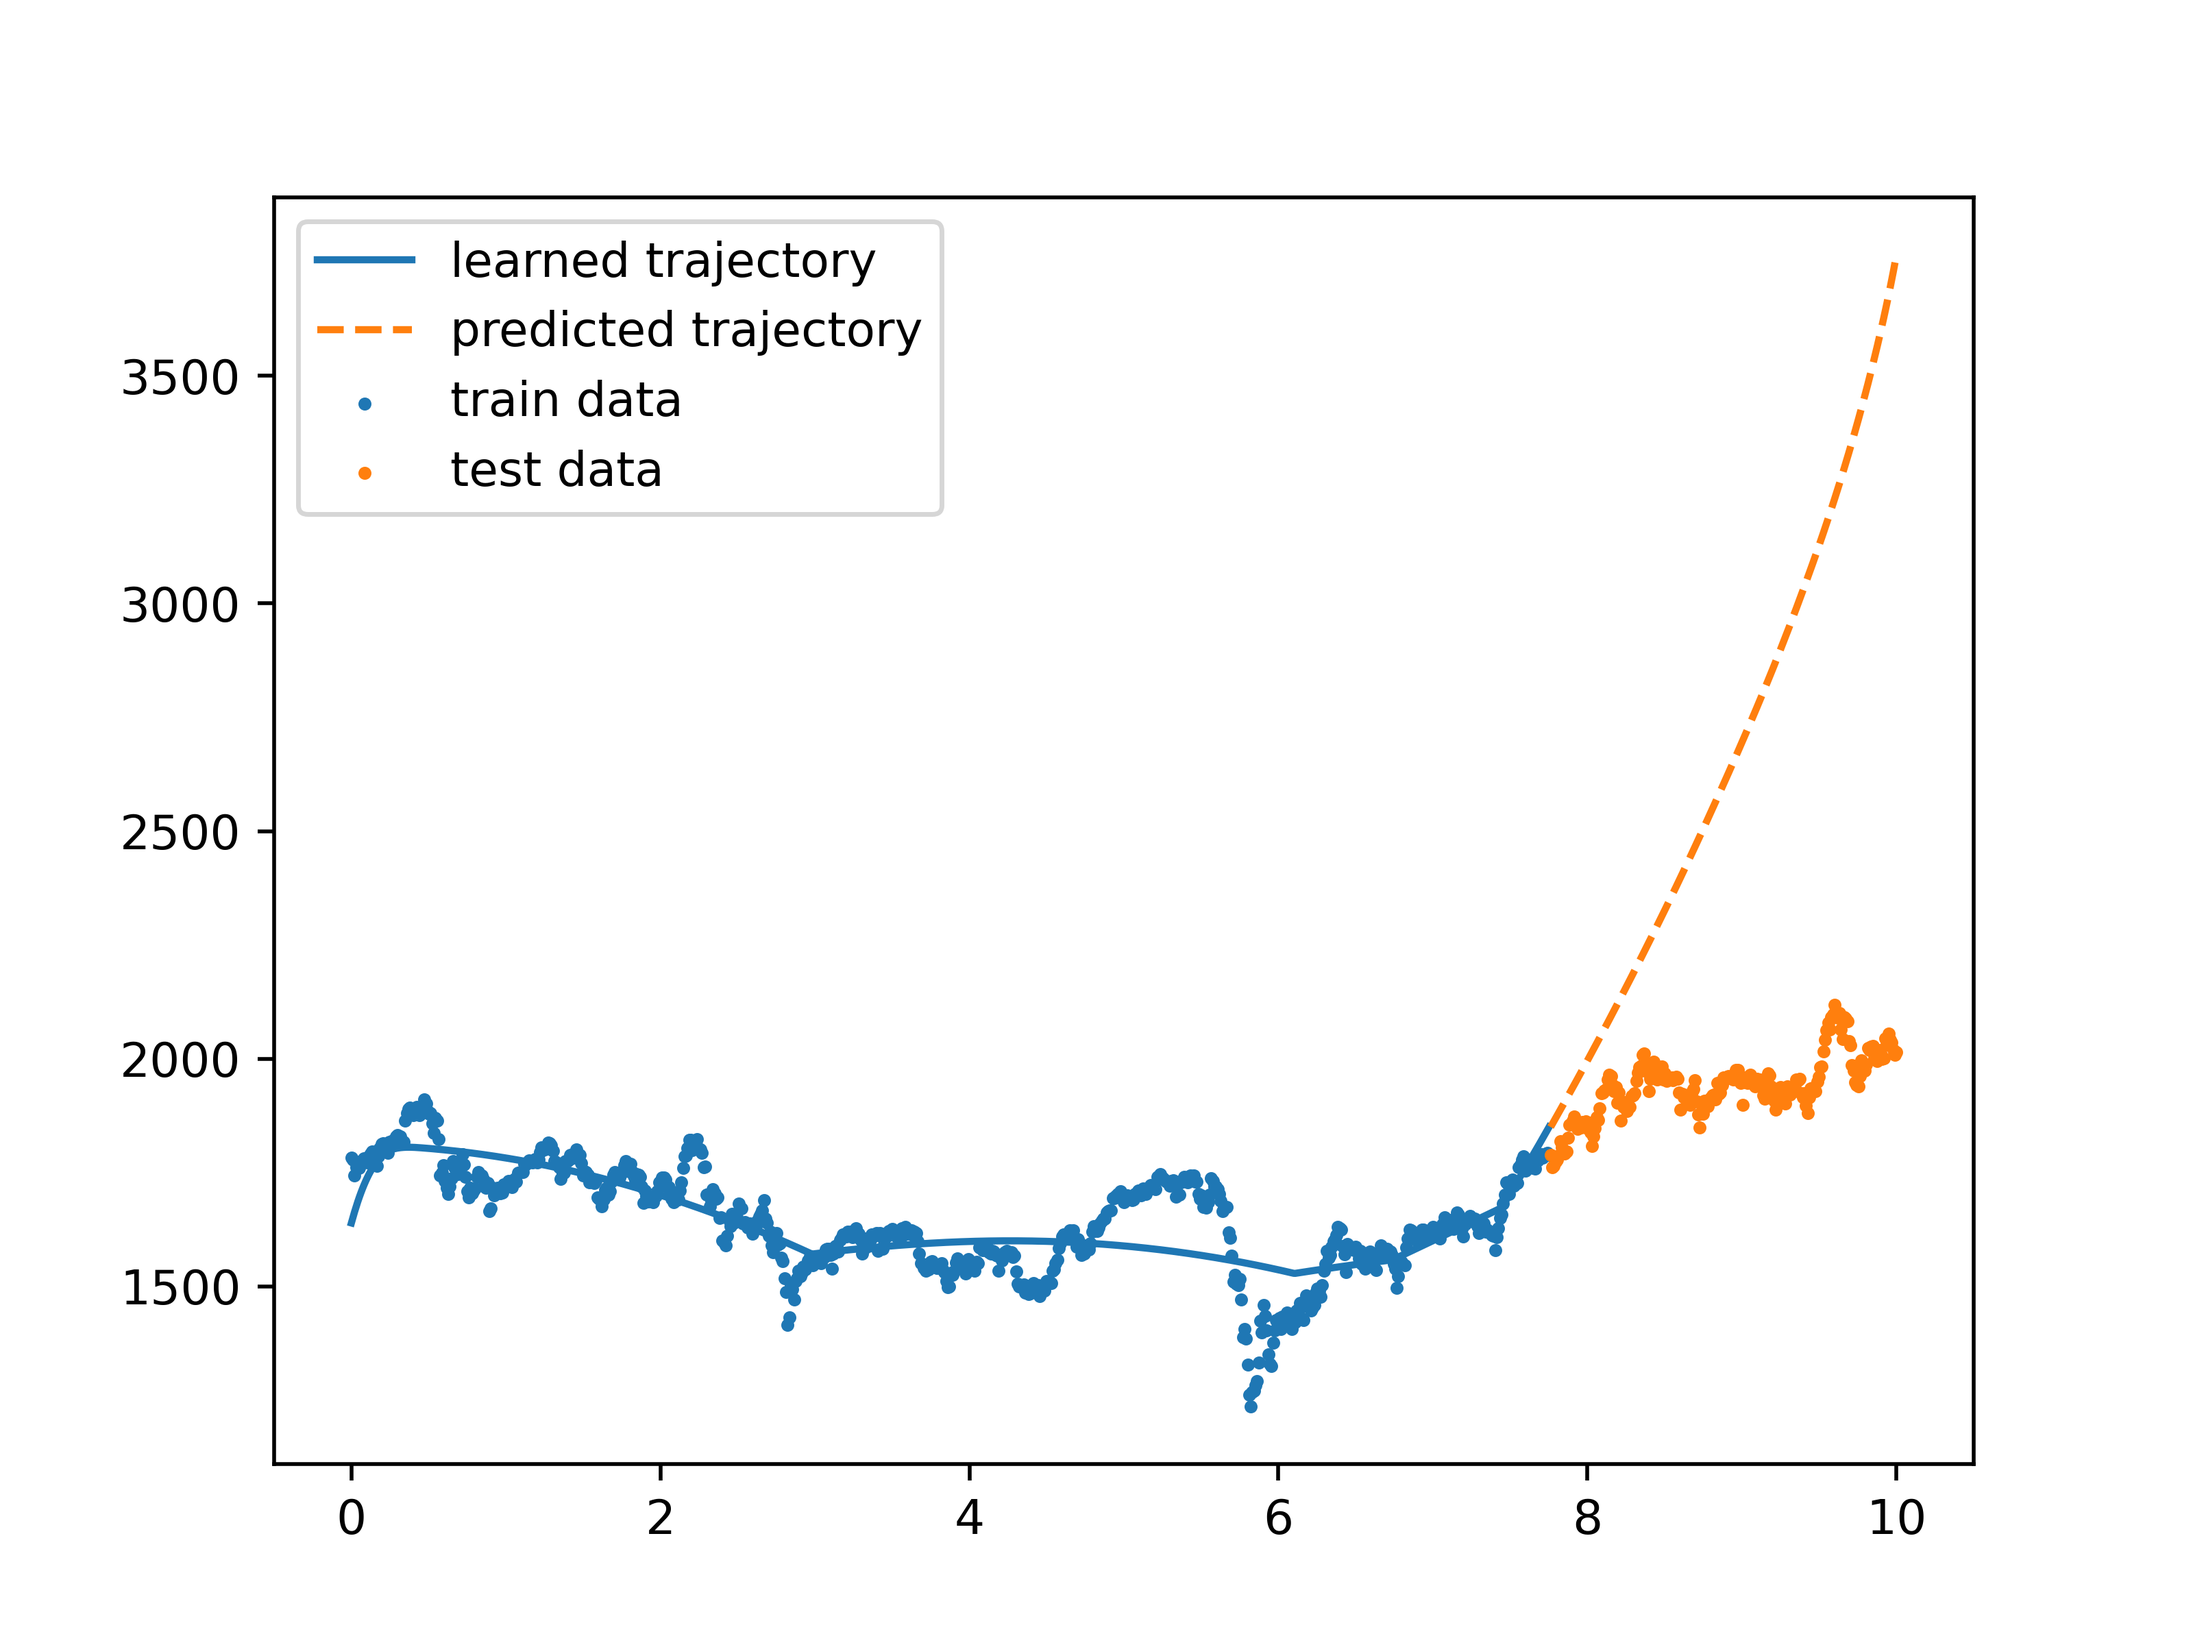
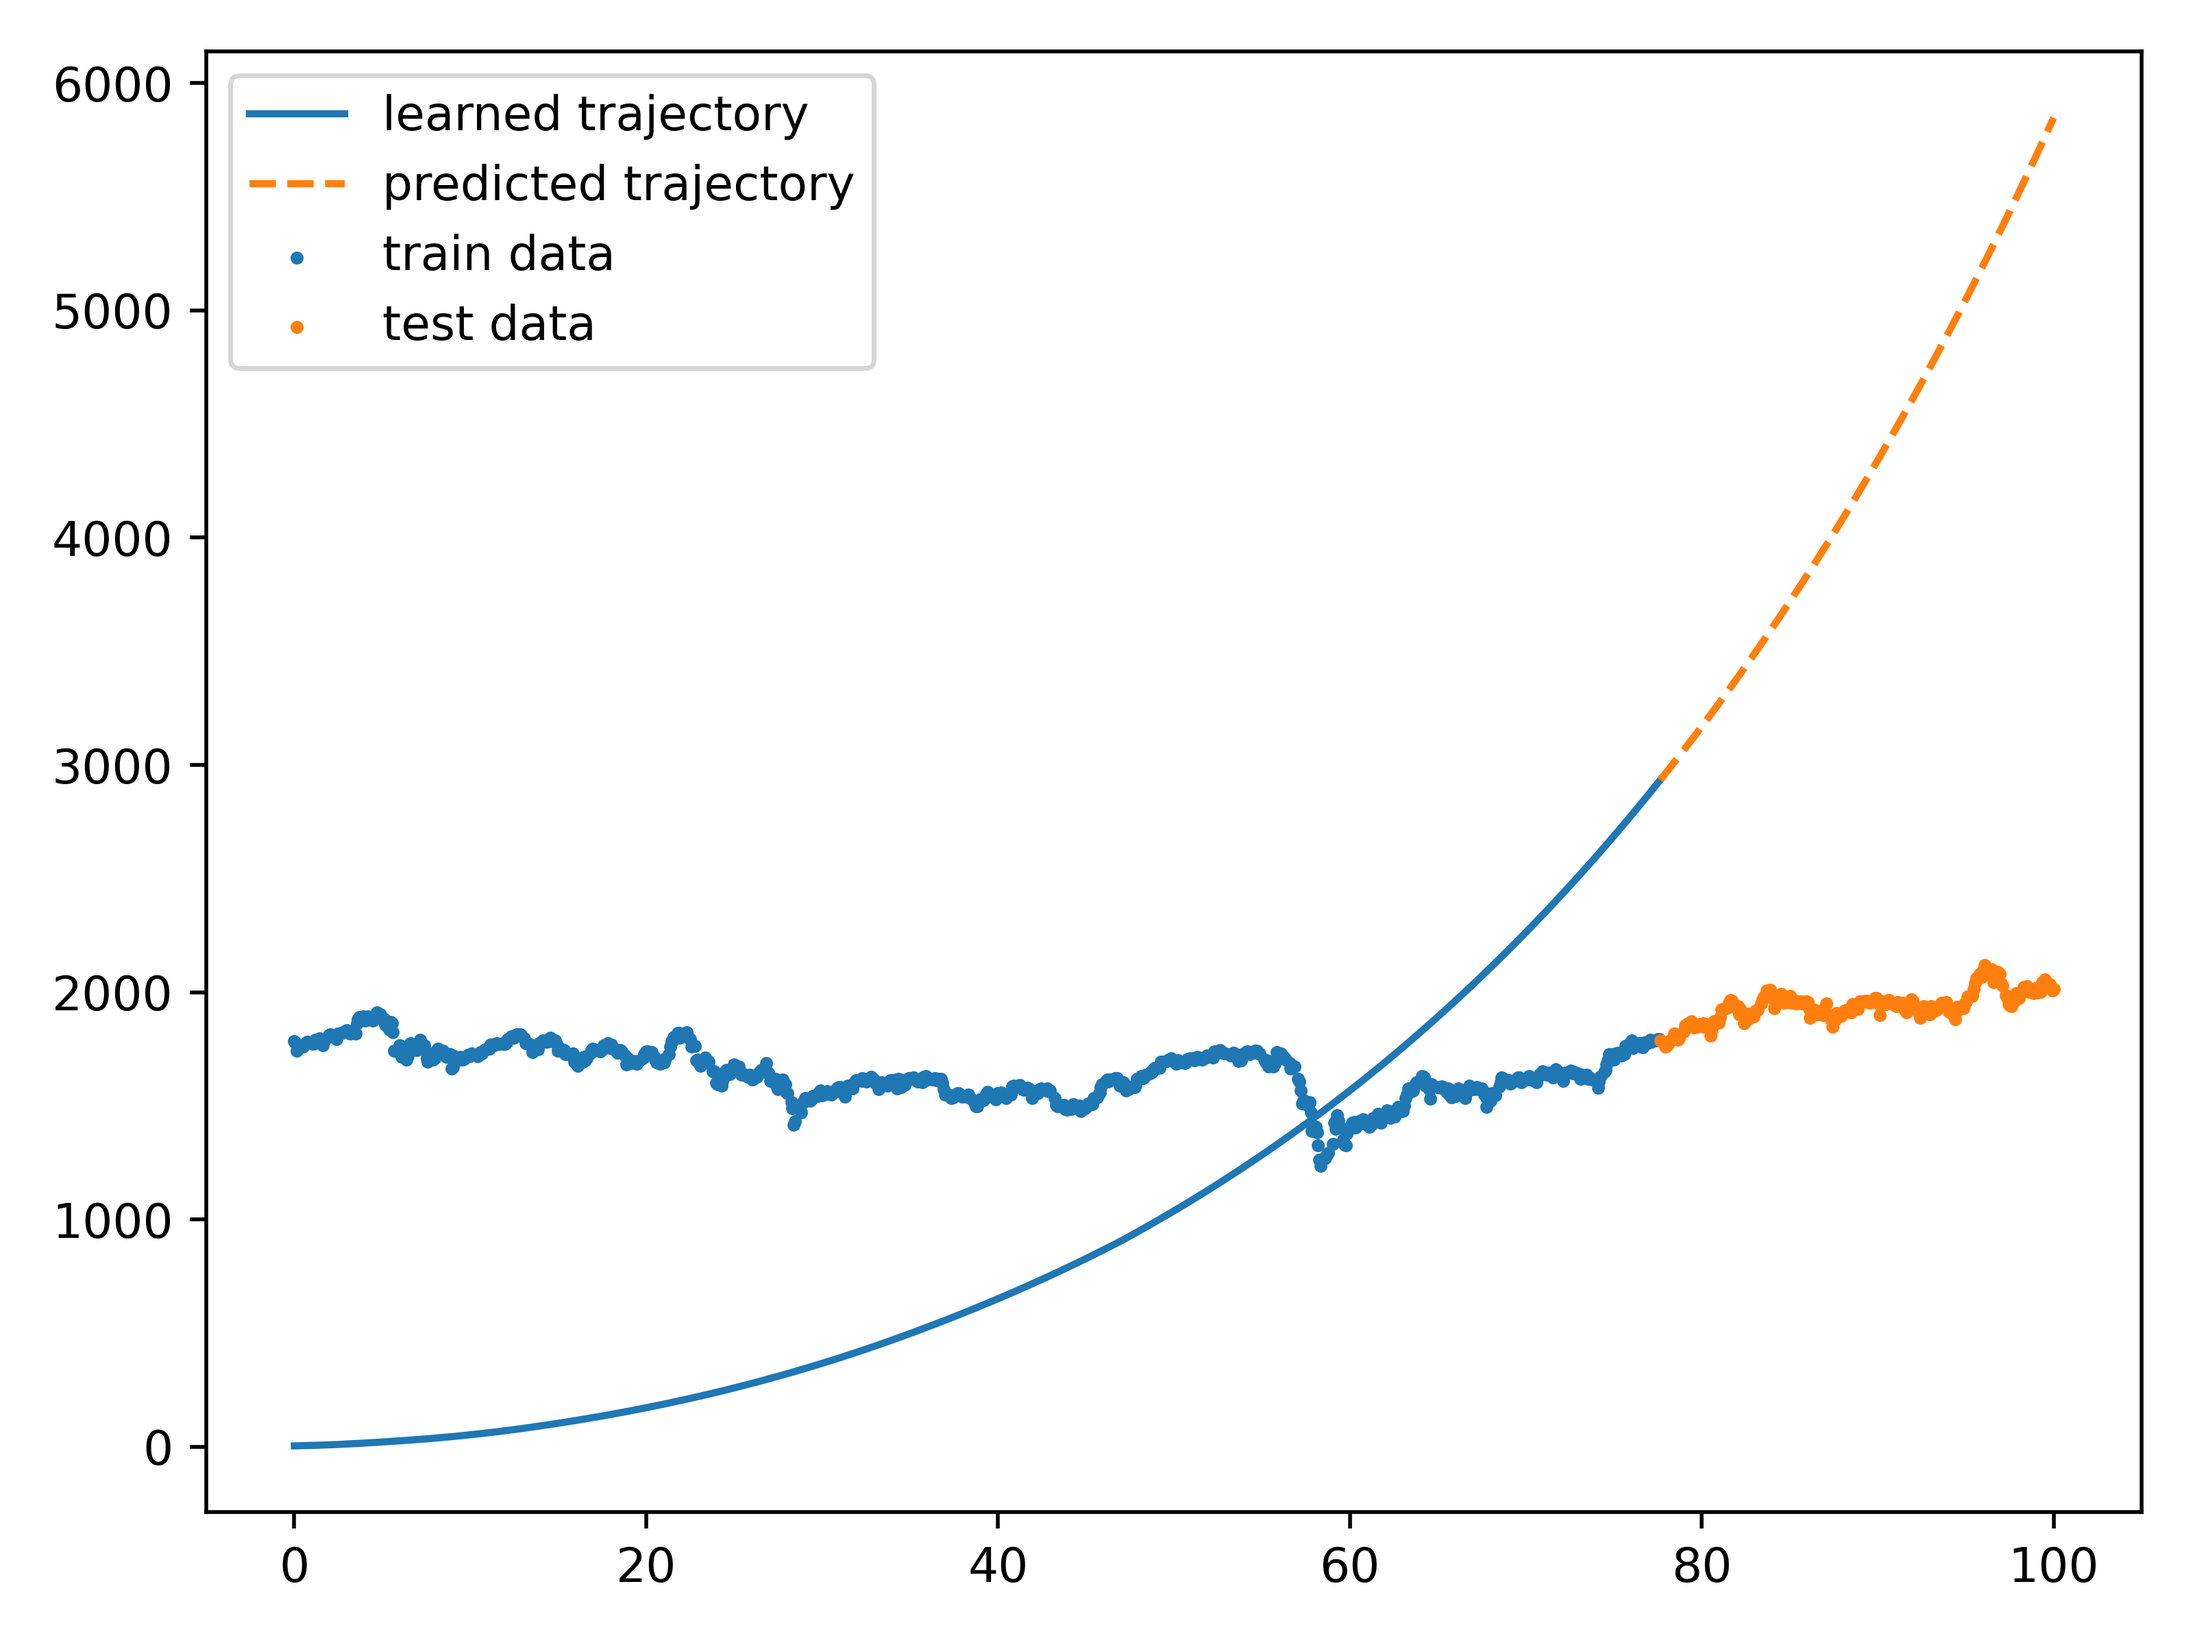
time series data is irregularly sampled

diff --git a/data.py b/data.py
@@ -1,162 +1,45 @@
 from matplotlib import colors
 import numpy as np
-from numpy.core.fromnumeric import transpose
+#from numpy.core.fromnumeric import transpose
 import numpy.random as npr
-from numpy import DataSource
+#from numpy import DataSource
 import pandas as pd
-from torch.utils import data
-from torch.utils.data import dataloader
+#from torch.utils import data
+#from torch.utils.data import dataloader
 import matplotlib.pyplot as plt
-
-
-
-def generate_spiral2d(nspiral=2,
-                      ntotal=50,  # sample number to plot smooth graph
-                      nsample=10, # ( ntotal - 2*nsample ) must be positive
-                      start=0.,
-                      stop=1,  # approximately equal to 6pi
-                      noise_std=.1,
-                      a=0.,
-                      b=1.,
-                      savefig=False):
-    """Parametric formula for 2d spiral is `r = a + b * theta`.
-    Args:
-      nspiral: number of spirals, i.e. batch dimension
-      ntotal: total number of datapoints per spiral
-      nsample: number of sampled datapoints for model fitting per spiral
-      start: spiral starting theta value
-      stop: spiral ending theta value
-      noise_std: observation noise standard deviation
-      a, b: parameters of the Archimedean spiral
-      savefig: plot the ground truth for sanity check
-    Returns: 
-      Tuple where first element is true trajectory of size (nspiral, ntotal, 2),
-      second element is noisy observations of size (nspiral, nsample, 2),
-      third element is timestamps of size (ntotal,),
-      and fourth element is timestamps of size (nsample,)
-    """
-
-    # add 1 all timestamps to avoid division by 0
-    orig_ts = np.linspace(start, stop, num=ntotal)
-    samp_ts = orig_ts[:nsample]
-
-    # generate clock-wise and counter clock-wise spirals in observation space
-    # with two sets of time-invariant latent dynamics
-    #zs_cw = stop + 1. - orig_ts
-    #rs_cw = a + b * 50. / zs_cw
-    #xs, ys = rs_cw * np.cos(zs_cw) - 5., rs_cw * np.sin(zs_cw)
-    #orig_traj_cw = np.stack((xs, ys), axis=1)
-
-    zs_cc = orig_ts
-    rw_cc = a + b * zs_cc
-    xs, ys = rw_cc * np.cos(zs_cc) + 5., rw_cc * np.sin(zs_cc)
-    orig_traj_cc = np.stack((xs, ys), axis=1)
-
-    if savefig:
-        plt.figure()
-        #plt.plot(orig_traj_cw[:, 0], orig_traj_cw[:, 1], label='clock')
-        plt.plot(orig_traj_cc[:, 0], orig_traj_cc[:, 1], label='counter clock')
-        plt.legend()
-        plt.savefig('./ground_truth.png', dpi=500)
-        print('Saved ground truth spiral at {}'.format('./ground_truth.png'))
-
-    # sample starting timestamps
-    orig_trajs = []
-    samp_trajs = []
-    for _ in range(nspiral):
-        # don't sample t0 very near the start or the end
-        t0_idx = npr.multinomial(
-            1, [1. / (ntotal - 2. * nsample)] * (ntotal - int(2 * nsample)))
-        t0_idx = np.argmax(t0_idx) + nsample
-
-        #cc = bool(npr.rand() > .5)  # uniformly select rotation
-        orig_traj = orig_traj_cc #if cc else orig_traj_cw
-        orig_trajs.append(orig_traj)
-
-        samp_traj = orig_traj[t0_idx:t0_idx + nsample, :].copy()
-        samp_traj += npr.randn(*samp_traj.shape) * noise_std
-        samp_trajs.append(samp_traj)
-
-    # batching for sample trajectories is good for RNN; batching for original
-    # trajectories only for ease of indexing
-    orig_trajs = np.stack(orig_trajs, axis=0)
-    samp_trajs = np.stack(samp_trajs, axis=0)
-    #print(type(samp_trajs))
-    #print(samp_trajs)
-    #from data import getdata
-    #data1, data2 = getdata()
-    #samp_trajs = data1.values
-    #print(orig_trajs.shape)
-    print(samp_trajs.shape)
-    print(samp_trajs)
-    plt.scatter(samp_trajs[0], samp_trajs[1])
-    plt.show()
-
-    return samp_trajs, orig_ts, samp_ts
-
-#generate_spiral2d()
-
-
-
-
-
-
 
 
 
 
 def get_TOPIX_data(batch_dim=10,
                       start=0.,
-                      stop=10, 
+                      stop=100, 
                       noise_std=10):
-    """Parametric formula for 2d spiral is `r = a + b * theta`.
-    Args:
-      nspiral: number of spirals, i.e. batch dimension
-      ntotal: total number of datapoints per spiral
-      nsample: number of sampled datapoints for model fitting per spiral
-      start: spiral starting theta value
-      stop: spiral ending theta value
-      noise_std: observation noise standard deviation
-      a, b: parameters of the Archimedean spiral
-      savefig: plot the ground truth for sanity check
-    Returns: 
-      Tuple where first element is true trajectory of size (nspiral, ntotal, 2),
-      second element is noisy observations of size (nspiral, nsample, 2),
-      third element is timestamps of size (ntotal,),
-      and fourth element is timestamps of size (nsample,)
-    """
+
     train_start = "2018/1/2"
     train_end = "2020/12/31"
-    test_start = "2020/12/31" #"2021/1/3"
+    test_start = train_end
     test_end = "2021/11/11"
-    data = pd.read_csv("data.csv", index_col="Date")
-    data = data[["TPX"]]
-    orig_data = data.loc[test_end:train_start]
-    data = data.iloc[::-1]
-    #print(data)
-    #data = data.sort_values("Date")
-    train_data = data.loc[train_start:train_end].values 
-    test_data = data.loc[test_start:test_end].values
-    #train_data = data.loc[train_end:train_start]
-    #print(train_data)
-    #test_data = data.loc[test_end:test_start].values
+    data = pd.read_csv("data.csv", index_col="Date").iloc[::-1]
+    data = data.loc[train_start:test_end]
+    ts = list(data.index)
+    ts = pd.to_datetime(ts)
+    ts = ts.map(pd.Timestamp.timestamp).values
+    ts_normal = start + (ts - ts[0]) / (ts[-1] - ts[0]) * (stop - start)
+ 
+
+    data_key = data[["TPX"]]
+    orig_data = data_key.loc[train_start:test_end].values
+    train_data = data_key.loc[train_start:train_end].values 
+    test_data = data_key.loc[test_start:test_end].values
     
-    ntotal = orig_data.size + 1
     ntrain = train_data.size
     ntest = test_data.size
 
-    orig_ts = np.linspace(start, stop, num=ntotal)
-    train_ts = orig_ts[:ntrain]
-    test_ts = orig_ts[ntrain:ntrain+ntest]
+    train_ts = ts_normal[:ntrain]
+    test_ts = ts_normal[ntrain-1:ntrain+ntest]
 
     sample_traj = train_data
-
-    #if []:
-    #    plt.figure()
-    #    plt.plot(orig_traj[:, 0], orig_traj[:, 1], label='counter clock')
-    #   plt.legend()
-    #    plt.savefig('./ground_truth.png', dpi=500)
-    #    print('Saved ground truth spiral at {}'.format('./ground_truth.png'))
 
     # sample starting timestamps
     sample_trajs = []
@@ -186,25 +69,31 @@ def get_TOPIX_data(batch_dim=10,
     return sample_trajs, train_data, test_data, train_ts, test_ts
 
 #sample_trajs, train_data, test_data, train_ts, test_ts = get_TOPIX_data()
-#print(sample_trajs.shape)
+#print(sample_trajs.shape, train_ts, test_ts)
 
 
 
 def data_plot():
-    data = data = pd.read_csv("data.csv", index_col="Date")
-    #data = data[["TPX", "SPX", "SX5E"]]
-    data = data[["TPX"]]
-    #data = data.sort_values("Date").loc["1987/1/2":"2021/11/11"]
-    #data = data.sort_values("Date").loc["2021/1/3":"2021/11/11"]
-    #data = data.loc["2020/1/3":"1987/1/2"]
-    data = data.loc["2021/11/11":"2018/1/2"]
-    data = data.iloc[::-1]
-    #data.sort_values("Date")
+    data_pd = pd.read_csv("data.csv", index_col="Date")
+    data_pd = data_pd[["TPX"]]
+    data_pd = data_pd.loc["2021/11/11":"2018/1/2"]
+    data_pd = data_pd.iloc[::-1]
+    #data_pd.plot()
+    #plt.show()
+    ts = list(data_pd.index)
+    train_start = "2018/1/2"
+    train_end = "2020/12/31"
     
-    #data = data.values
-    #print(type(data))
-    #print(data)
-    data.plot()
-    plt.show()
+    data = pd.read_csv("data.csv").iloc[::-1] 
+    #ts = data["Date"]
+    #print(ts)
+    ts = pd.to_datetime(ts)
+    ts = ts.map(pd.Timestamp.timestamp).values
+    ts_normal = (ts - ts[0]) / (ts[-1] - ts[0])
     
-#data_plot()
+    data_pd = data.set_index(["Date"])
+    #print(data_pd[["TPX"]].loc[train_start:train_end])
+      
+    #print(ts_normal)
+    
+data_plot()

diff --git a/train_fSDE.py b/train_fSDE.py
@@ -158,6 +158,7 @@ if __name__ == '__main__':
             
         xs_learn = xs_learn.cpu().numpy()
         xs_pred = xs_pred.cpu().numpy()
+        #print(xs_learn[-1], xs_pred[0])
 
         plot_path(train_ts, xs_learn, test_ts, xs_pred, train_data, test_data, './vis_fSDE.png')
         plot_hist(xs_learn, train_data, "./hist_fSDE.png")
